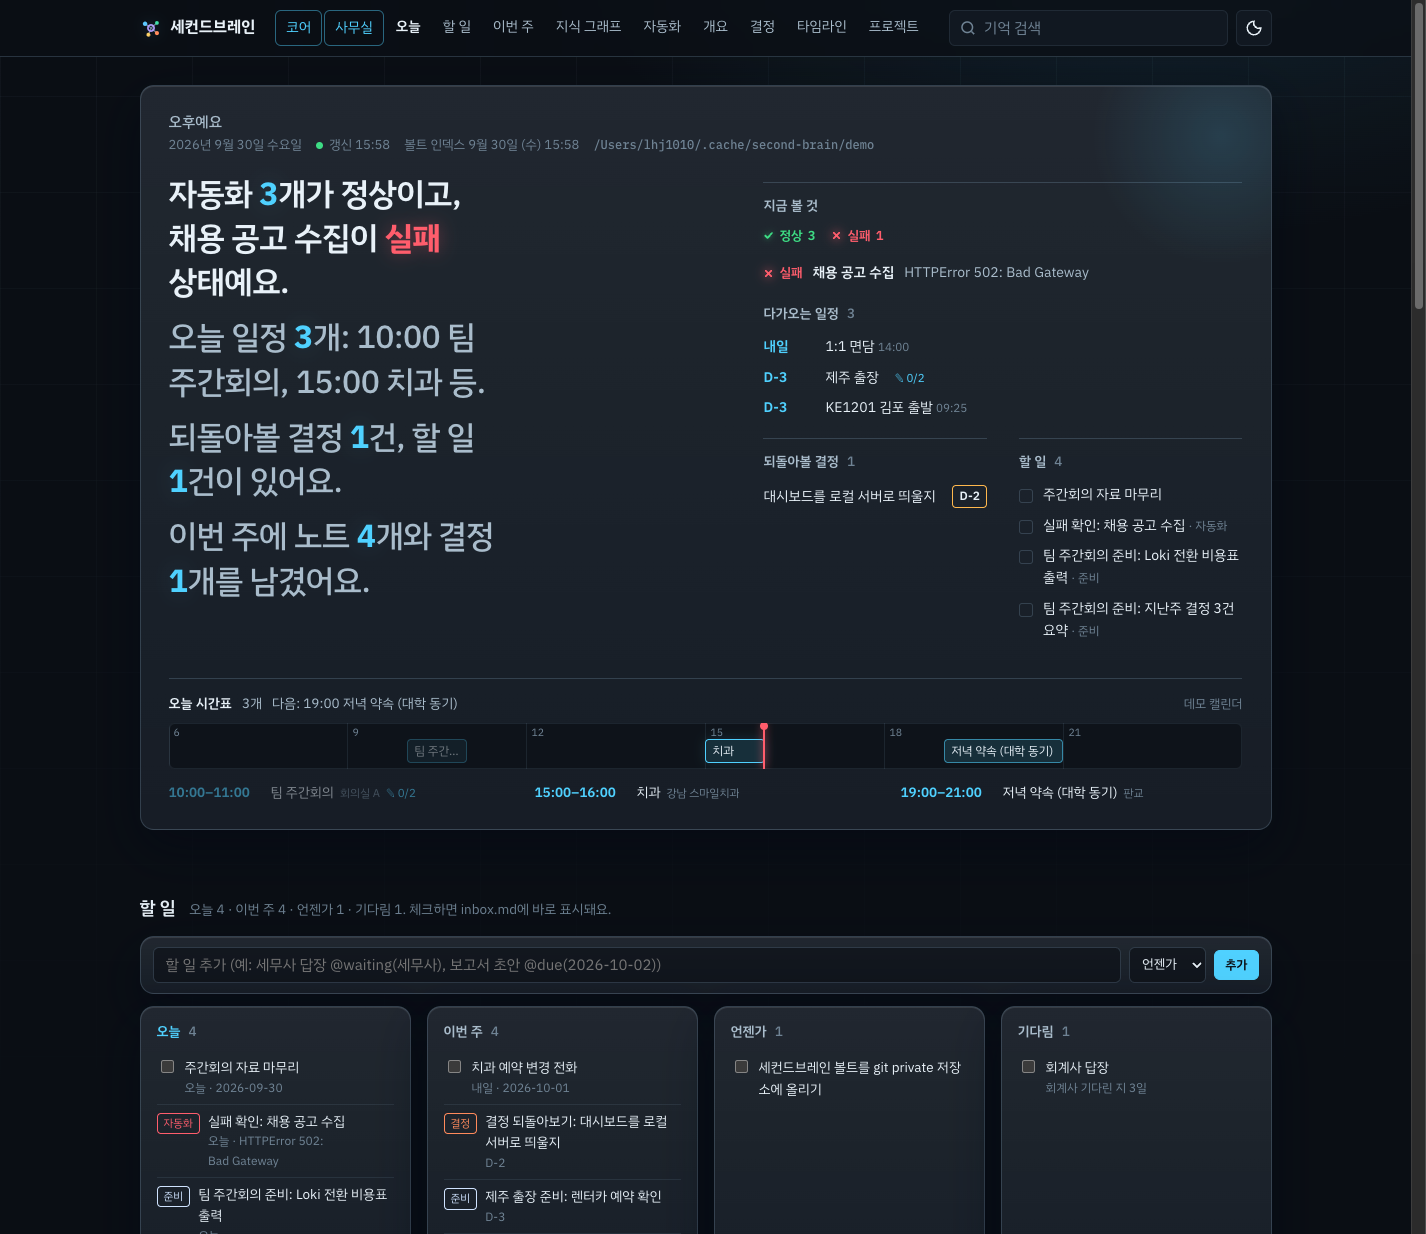
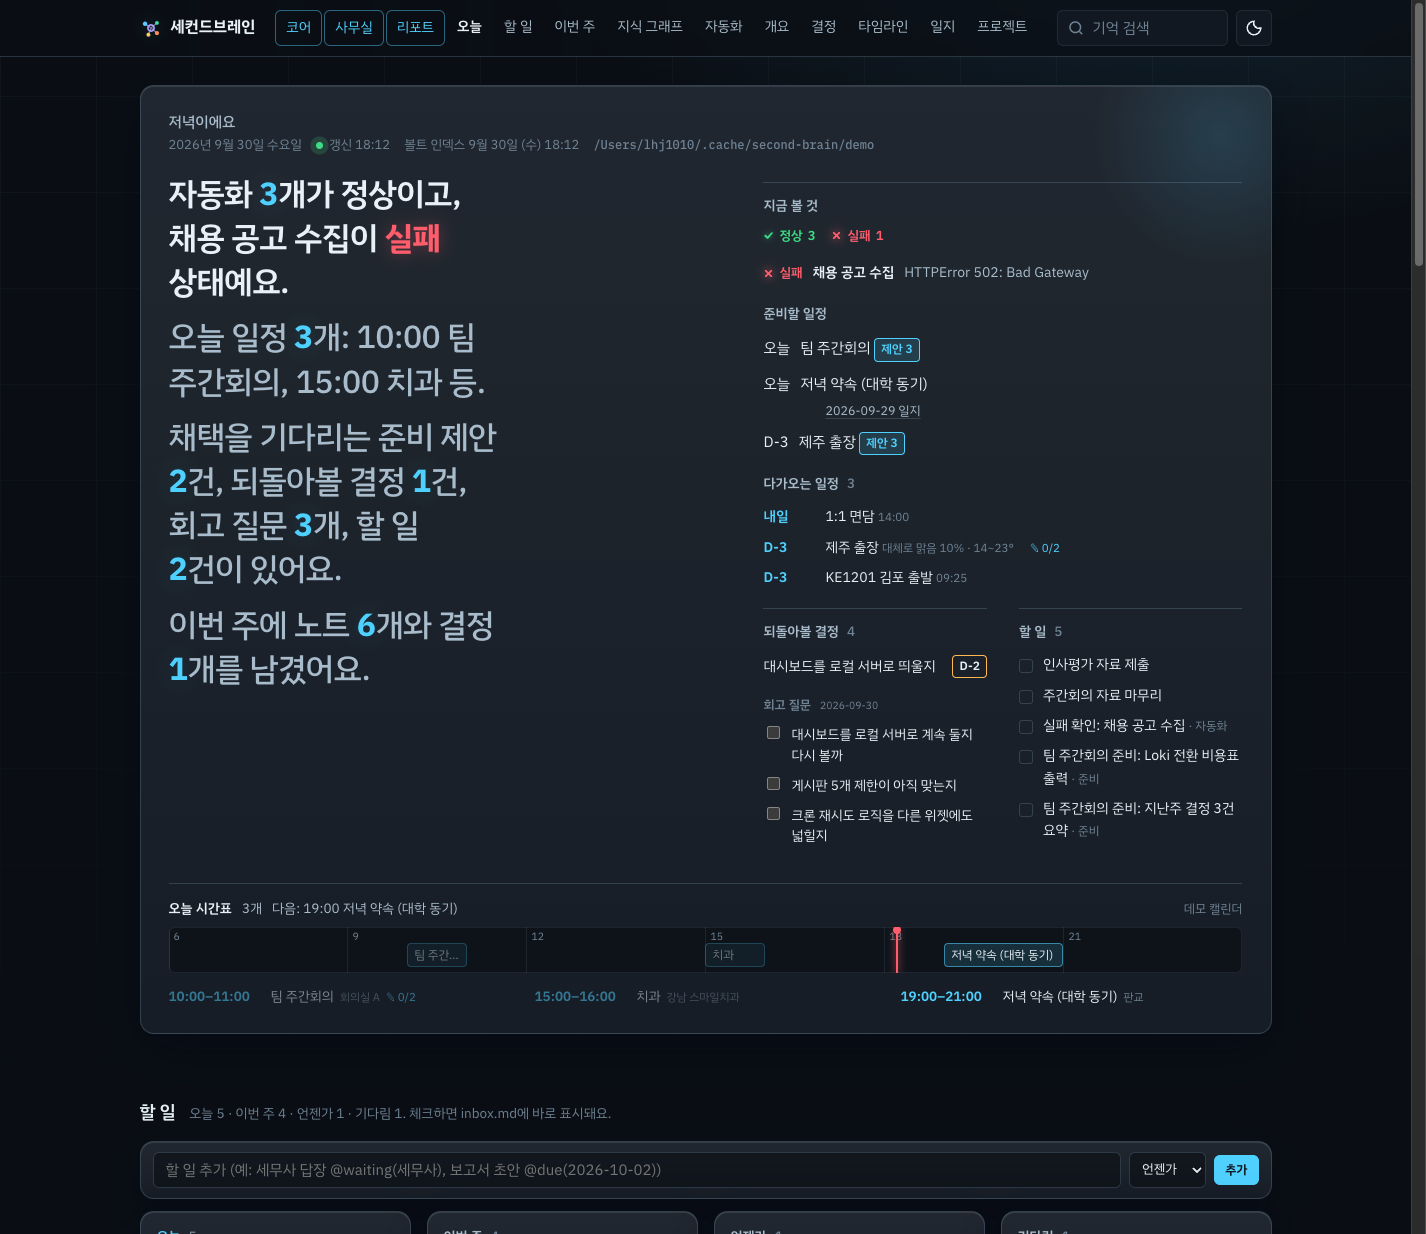
근무표: 같은 로그를 쓰는 크론 줄이 여럿이면 슬롯 모두 표시(마켓세트 10·15시), 데모 미리보기 갱신

diff --git a/scripts/brain.py b/scripts/brain.py
@@ -4163,7 +4163,7 @@ def _cron_schedule_lines(cron_lines):
         cmd = parts[5]
         m = re.search(r">>?\s*(\S+\.log)", cmd)
         if m:
-            out[os.path.expanduser(m.group(1))] = s
+            out.setdefault(os.path.expanduser(m.group(1)), []).append(s)  # 같은 로그에 여러 스케줄(10시·15시) 허용
         else:
             script = next((c for c in cmd.split() if c.endswith((".py", ".sh"))), None)
             if script:
@@ -4224,9 +4224,11 @@ def office_schedule(widgets, cron_lines=None, plist_dir=None, today=None, now=No
                 intervals.append({"id": w["id"], "title": title, "every_min": every})
                 continue
         if times is None:
-            line = cron_raw.get(src) or cron_raw.get(Path(src).stem)
-            if line:
-                times = schedule_for(line, today)
+            lines_ = cron_raw.get(src) or cron_raw.get(Path(src).stem) or []
+            if isinstance(lines_, str):
+                lines_ = [lines_]
+            if lines_:
+                times = sorted({t for ln in lines_ for t in schedule_for(ln, today)})
         if not times:
             continue
         past = [t for t in times if t <= now_hm]
